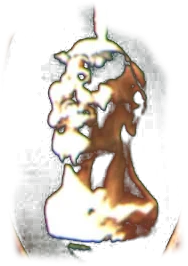
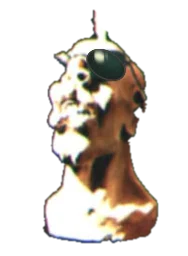
Bestiario: Luzbelito macizo, con el lente repintado (D-73)
El busto se separaba del óvalo negro por luminosidad y la sombra de la cara
y del cuello se transparentaba. Ahora el recorte es macizo: la silueta se
separa por distancia al negro verdoso del óvalo, se le tapan los agujeros y
se le pela el ribete del fondo. El lente oscuro del antiparras, del mismo
color que el óvalo, ya no se corta: se repinta encima con tintas nuevas de
tokens.css (falta pasarlas al lienzo).

diff --git a/src/lib/bestiario/recortes.ts b/src/lib/bestiario/recortes.ts
@@ -39,6 +39,25 @@ export interface Recorte {
    * `desde` y `hasta` se funde.
    */
   fondoOscuro?: { desde: number; hasta: number };
+  /**
+   * Si la figura tiene sombras tan oscuras como el fondo (el busto de Luzbelito): en vez de
+   * transparentar por luminosidad, se separa la silueta —lo que se aleja más de `umbral` del color
+   * `fondo`—, se le tapan los agujeros y queda maciza. Solo el canto se sopla, `canto` píxeles. `incluye`
+   * es lo que es figura aunque tenga el color del fondo, dibujado a mano. `pelar` son las pasadas
+   * que le sacan al canto el ribete del fondo que el cierre deja pegado.
+   */
+  macizo?: {
+    fondo: readonly [number, number, number];
+    umbral: number;
+    canto: number;
+    incluye?: readonly (readonly Punto[])[];
+    pelar?: number;
+  };
+  /**
+   * Lo que se pinta encima de la tapa antes de cortar, en sus píxeles: un SVG hecho con las tintas
+   * de `tokens.css` (`tinta` da el hex de un token). Lo pintado cuenta como figura.
+   */
+  pintado?: (tinta: (token: string) => string) => string;
   /** Cuánto se achica al guardarlo, si no es el `REDUCCION` de siempre: las figuras chicas, enteras. */
   reduccion?: number;
   /**
@@ -117,13 +136,50 @@ const BOCA_PERRO: readonly Punto[] = [
 
 /*
  * Luzbelito (`RES-06`): la cabeza esculpida con la vela encendida en la coronilla, del óvalo de
- * su tapa. El fondo del óvalo es negro, así que se separa por luminosidad. La llama va aparte
+ * su tapa. El fondo del óvalo es negro, pero la sombra de la cara y del cuello es casi igual de
+ * oscura: por luminosidad se transparentaba entera. Así que va maciza (`macizo`): la silueta se
+ * separa por la distancia al negro verdoso del óvalo y se le tapan los agujeros. El polígono solo
+ * acota dónde buscarla: corta en la base del busto, antes del pie y del marco. La llama va aparte
  * para que titile.
  */
 const BUSTO_LUZBELITO: readonly Punto[] = [
-  [428, 382], [470, 368], [494, 372], [495, 352], [515, 352], [516, 372], [556, 384], [580, 420], [574, 498], [586, 520],
-  [594, 590], [545, 600], [470, 600], [434, 596], [430, 540], [440, 520], [424, 480], [424, 420],
+  [428, 382], [470, 368], [496, 372], [498, 352], [512, 352], [514, 372], [556, 384], [580, 420], [574, 498], [586, 520],
+  [594, 586], [545, 590], [490, 586], [458, 578], [448, 540], [440, 520], [424, 480], [424, 420],
 ];
+/**
+ * El lente oscuro del antiparras, el de su izquierda: es del mismo verde negro que el óvalo, así
+ * que por color se cortaba a mordiscos. Va a mano, hasta la correa, que es el canto de la cabeza.
+ */
+const LENTE_LUZBELITO: readonly Punto[] = [
+  [504, 383], [514, 385], [524, 389], [534, 395], [541, 401], [548, 410], [554, 420], [558, 431], [560, 442],
+  [532, 442], [514, 426], [503, 404],
+];
+/**
+ * El mismo lente, repintado (pedido del usuario: *"todavía no se recorta bien el lente, generalo"*).
+ * Un vidrio oval con su aro, soplado de lo hondo a la luz de la vela, con el brillo donde la tapa
+ * lo tiene y el grano de la foto. Las medidas son las del lente de la tapa.
+ */
+function lenteDeLuzbelito(tinta: (token: string) => string): string {
+  const [cx, cy, rx, ry, giro] = [521, 408, 21, 14, 30];
+  return (
+    `<defs>` +
+    `<clipPath id="vidrio"><ellipse cx="0" cy="0" rx="${rx}" ry="${ry}"/></clipPath>` +
+    `<filter id="soplo" x="-50%" y="-50%" width="200%" height="200%"><feGaussianBlur stdDeviation="3.5"/></filter>` +
+    `<filter id="brillo" x="-50%" y="-50%" width="200%" height="200%"><feGaussianBlur stdDeviation="1.6"/></filter>` +
+    `<filter id="aro"><feGaussianBlur stdDeviation="0.5"/></filter>` +
+    `<filter id="grano"><feTurbulence type="fractalNoise" baseFrequency="1.4" numOctaves="2" seed="7"/>` +
+    `<feColorMatrix values="0 0 0 0 0  0 0 0 0 0  0 0 0 0 0  0 0 0 0.35 -0.1"/><feComposite in2="SourceGraphic" operator="in"/></filter>` +
+    `</defs>` +
+    `<g transform="translate(${cx} ${cy}) rotate(${giro})">` +
+    `<ellipse rx="${rx}" ry="${ry}" fill="${tinta('--bestia-luzbelito-vidrio')}"/>` +
+    `<g clip-path="url(#vidrio)"><ellipse cx="-3" cy="-7" rx="${rx * 0.8}" ry="${ry * 0.55}" fill="${tinta('--bestia-luzbelito-vidrio-luz')}" filter="url(#soplo)"/></g>` +
+    `<ellipse rx="${rx}" ry="${ry}" fill="${tinta('--bestia-luzbelito-vidrio')}" filter="url(#grano)"/>` +
+    `<ellipse rx="${rx - 0.8}" ry="${ry - 0.8}" fill="none" stroke="${tinta('--bestia-luzbelito-aro')}" stroke-width="1.3" filter="url(#aro)"/>` +
+    `<ellipse cx="-10" cy="-4" rx="5.5" ry="4.2" fill="${tinta('--bestia-luzbelito-brillo')}" filter="url(#brillo)"/>` +
+    `<ellipse cx="-4" cy="-8" rx="2.2" ry="0.9" fill="${tinta('--bestia-luzbelito-brillo')}" opacity="0.7" filter="url(#brillo)"/>` +
+    `</g>`
+  );
+}
 const LLAMA_LUZBELITO: readonly Punto[] = [[494, 312], [516, 312], [516, 360], [494, 360]];
 
 /** El medallón de Momo, de la tapa de *Momo Sampler*: un círculo de plata con la cara del rey del carnaval. */
@@ -145,7 +201,7 @@ export const RECORTES: readonly Recorte[] = [
   { nombre: 'perro-real-boca', reduccion: 1, fuente: 'perro', poligono: BOCA_PERRO, plumado: 4, fundirBordes: true },
   { nombre: 'perro-real-mandibula', reduccion: 1, fuente: 'perro', poligono: MANDIBULA_PERRO, plumado: 4, fundirBordes: true },
   { nombre: 'perro-real-cabeza', reduccion: 1, fuente: 'perro', poligono: CABEZA_PERRO, plumado: 4, fundirBordes: true },
-  { nombre: 'luzbelito-real-busto', reduccion: 1, fuente: 'luzbelito', poligono: BUSTO_LUZBELITO, plumado: 3, fondoOscuro: { desde: 34, hasta: 70 } },
+  { nombre: 'luzbelito-real-busto', reduccion: 1, fuente: 'luzbelito', poligono: BUSTO_LUZBELITO, plumado: 3, macizo: { fondo: [31, 33, 35], umbral: 20, canto: 0.8, incluye: [LENTE_LUZBELITO], pelar: 2 }, pintado: lenteDeLuzbelito },
   { nombre: 'luzbelito-real-llama', reduccion: 1, fuente: 'luzbelito', poligono: LLAMA_LUZBELITO, plumado: 3, fondoOscuro: { desde: 40, hasta: 90 } },
   {
     nombre: 'infierno-pincelada',

diff --git a/src/styles/tokens.css b/src/styles/tokens.css
@@ -296,6 +296,15 @@
   --bestia-monito-diente: #f6e8e5; /* los dientes pelados */
   /* ⟨/el monito que trepa⟩ */
 
+  /* ⟨el lente de Luzbelito⟩ */
+  /* El lente oscuro del antiparras del busto, repintado encima del recorte porque es del mismo
+     verde negro que el ovalo (luzbelito-frontal.jpg, 953 px; pixeles del lente, `sharp`). */
+  --bestia-luzbelito-vidrio: #1f2e29; /* el vidrio, en lo hondo */
+  --bestia-luzbelito-vidrio-luz: #2f4a3f; /* el vidrio, arriba, donde le llega la vela */
+  --bestia-luzbelito-aro: #49413e; /* el aro del antiparras, junto a la correa */
+  --bestia-luzbelito-brillo: #f8f6cf; /* el brillo de la vela en el vidrio */
+  /* ⟨/el lente de Luzbelito⟩ */
+
   /* ⟨el Capitan Buscapina⟩ */
   /* El Capitan Buscapina: la piel es la de la banda dentro del ojo de buey de *Ultimo bondi*, que
      son postales virtuales (gente de computadora, piel de plastico tibia, sombra honda y un reflejo

diff --git a/ESTADO.md b/ESTADO.md
@@ -7,6 +7,24 @@
 
 **Última actualización:** 2026-10-24
 
+> ## 🕯 LUZBELITO, MACIZO (2026-10-24) — `D-73`, pulida
+>
+> **En la rama `bestiario/luzbelito-macizo`**, sobre `main` en `a206ce2`; **sin integrar**. Pedido del usuario: el
+> busto de Luzbelito *"está como mal cortado y se transparenta mucho"*.
+>
+> - **Por qué pasaba:** el busto se separaba del óvalo negro por luminosidad, y la sombra de la cara y del cuello es casi igual
+>   de oscura que el fondo: quedaba lleno de agujeros por donde se veía el fuego, con restos del pie y del marco abajo.
+> - **El arreglo:** `recortes.ts` suma la opción `macizo` (la silueta se separa por distancia al negro verdoso del óvalo, se le
+>   tapan los agujeros y queda la pieza más grande; solo se sopla el canto) y `scripts/recortar-bestiario.mjs` la imprime. El
+>   polígono ahora corta en la base del busto. Segunda pasada, a pedido (*"el lente izquierdo corta mal"*): el lente oscuro del
+>   antiparras, del mismo verde negro que el óvalo, va dibujado a mano (`incluye`), y al canto se le pela el ribete del fondo
+>   que dejaba un contorno oscuro (`pelar`). Tercera (*"todavía no se recorta bien el lente, generalo"*): el lente ya no se
+>   corta, **se repinta** encima de la tapa (`pintado`, `lenteDeLuzbelito` en `recortes.ts`): vidrio oval con aro, soplado de
+>   lo hondo a la luz de la vela, con el brillo y el grano, en tintas nuevas (`⟨el lente de Luzbelito⟩` en `tokens.css`).
+>   **Falta pasar esas cuatro tintas al lienzo.** Se reimprimió solo `luzbelito-real-busto.webp`; los demás recortes salen iguales.
+> - **Verde:** `npm test` (2002), `npm run check`, `npm run build`. Visto en la escena del infierno y en la ficha, sobre el fuego.
+> - **Falta:** integrar el PR, y pasar las cuatro tintas del lente al lienzo.
+
 > ## 🛩 CINCO DEL FONDO: ZIPPO, EL DIABLO MÁS VELOZ, EL SANTO FUMADOR, EL COLGADO Y LA SEÑORA (2026-10-24) — `D-73` (20)
 >
 > **En `main` desde el PR #79** (commit de fusión `7e76bf7`), rama `bestiario/cinco-del-fondo`. Lo integró Claude a pedido del
